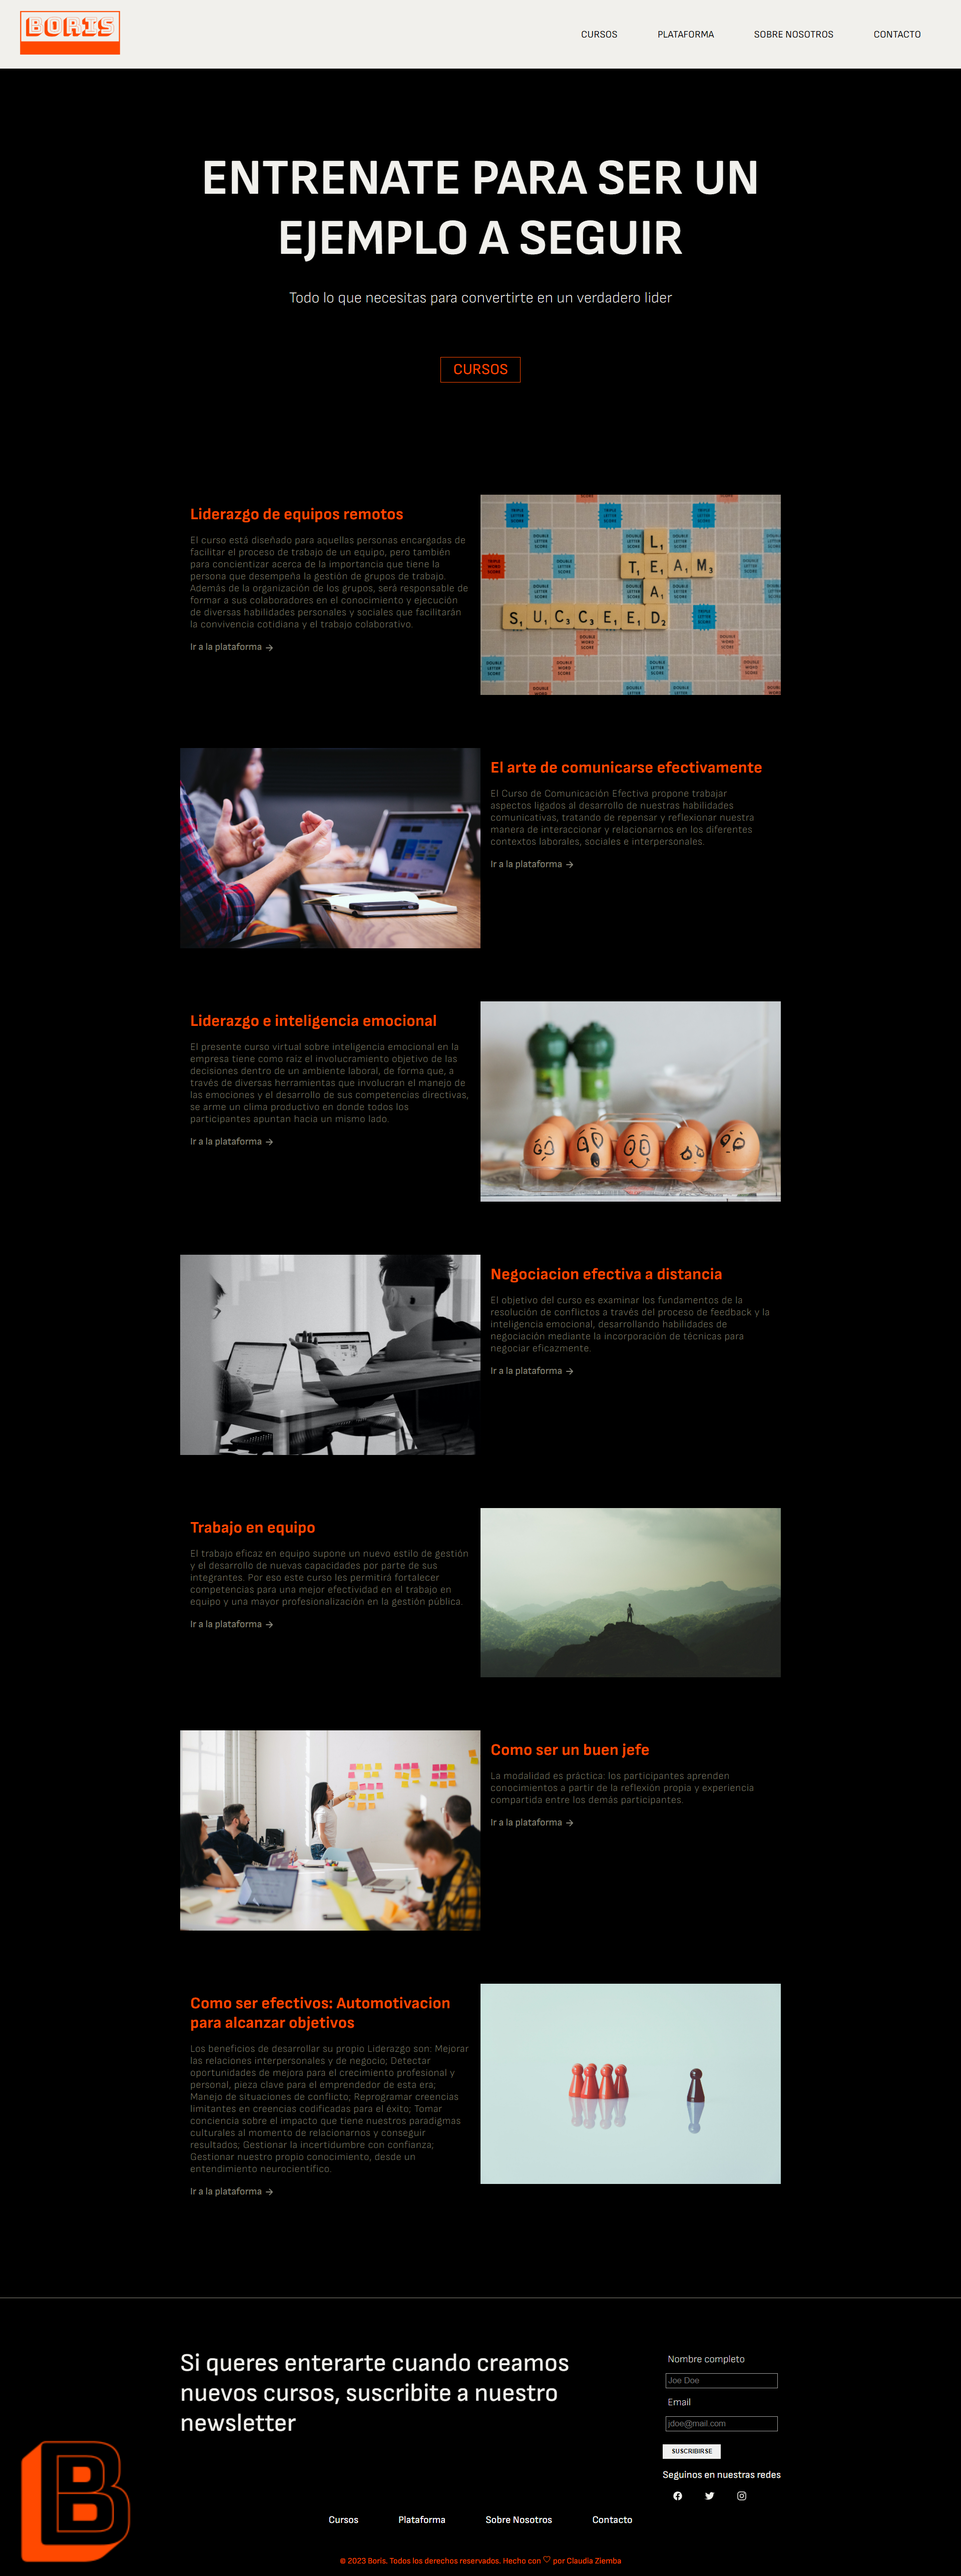
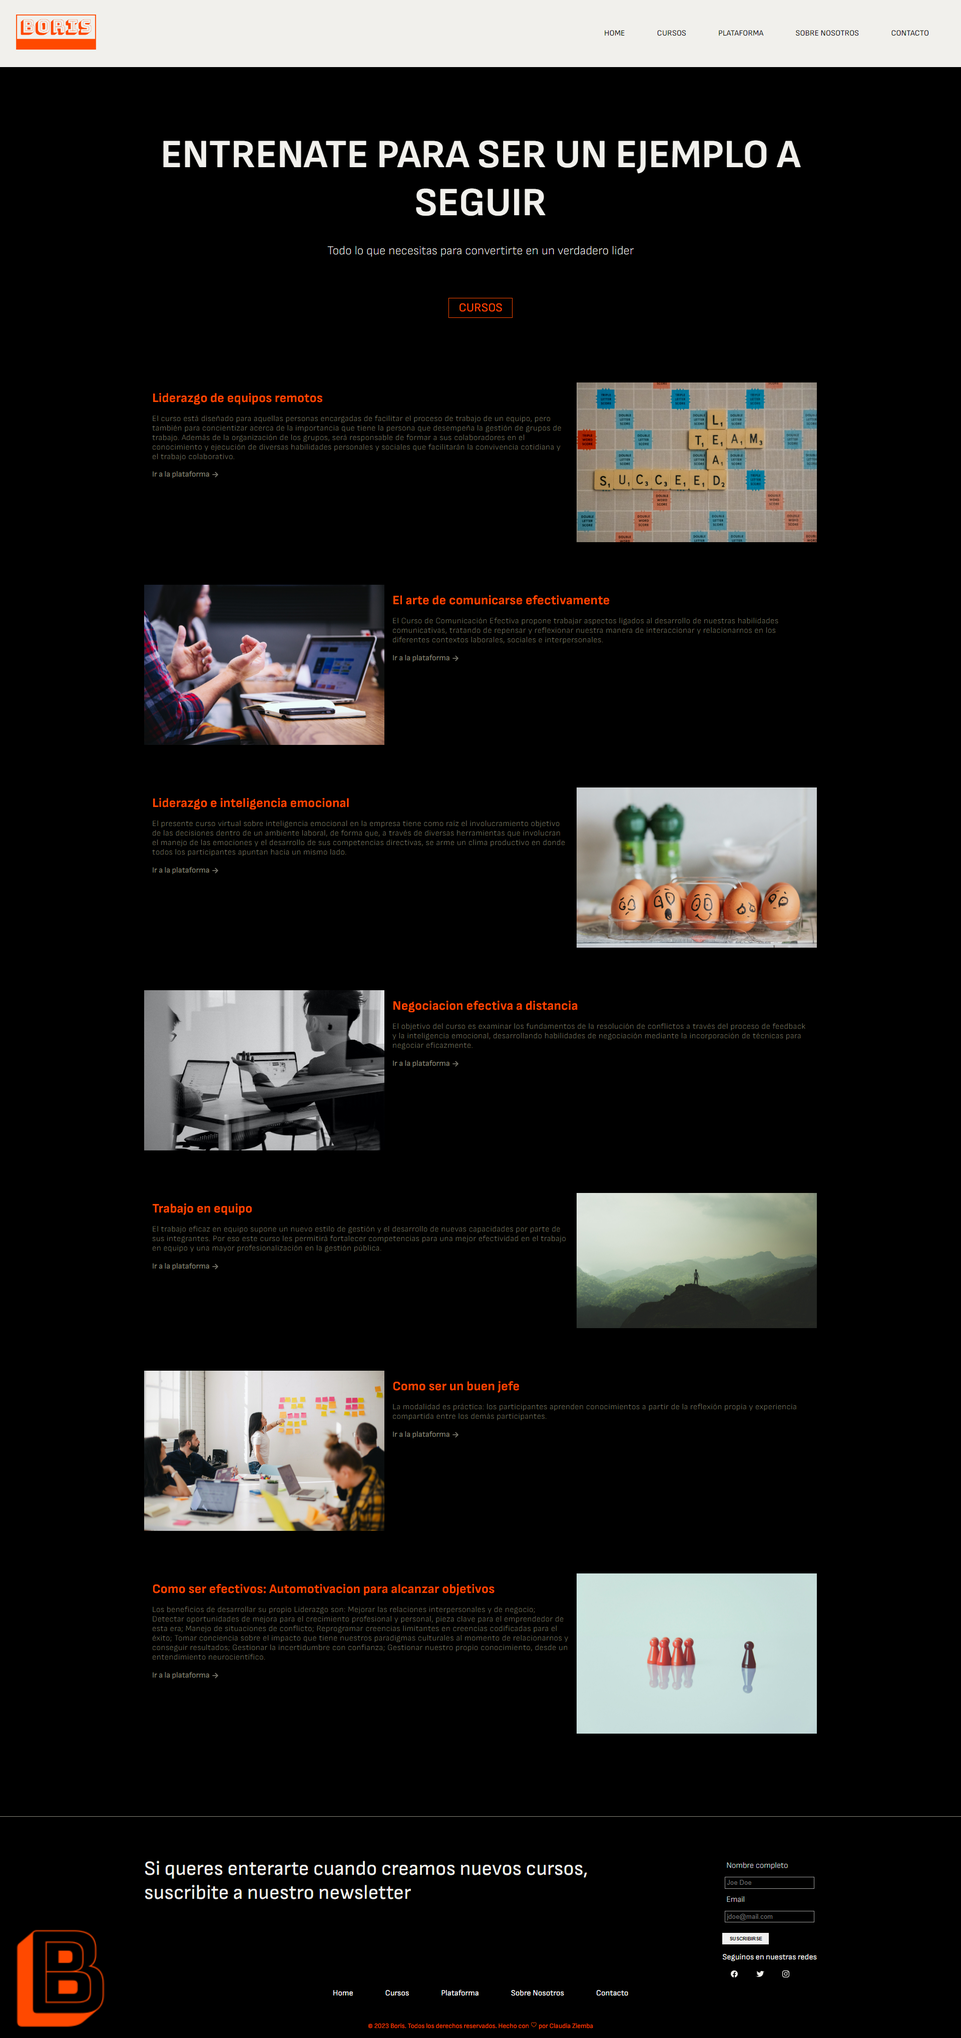
fix: adding link home page

diff --git a/Integrador_1/contact.html b/Integrador_1/contact.html
@@ -16,6 +16,7 @@
                 <a href="index.html"><img src="assets/images/logo-color.png" alt="Logo Boris"></a>
             </div>
             <ul>
+                <li><a href="index.html">Home</a></li>
                 <li><a href="courses.html">Cursos</a></li>
                 <li><a href="platform.html">Plataforma</a></li>
                 <li><a href="about.html">Sobre Nosotros</a></li>
@@ -73,6 +74,7 @@
             <div class="footer__info">
                 <img class="footer__logo" src="assets/images/boris-website-favicon-color.png" alt="Logo boris">
                 <ul>
+                    <li><a href="index.html">Home</a></li>
                     <li><a href="courses.html">Cursos</a></li>
                     <li><a href="platform.html">Plataforma</a></li>
                     <li><a href="about.html">Sobre Nosotros</a></li>
